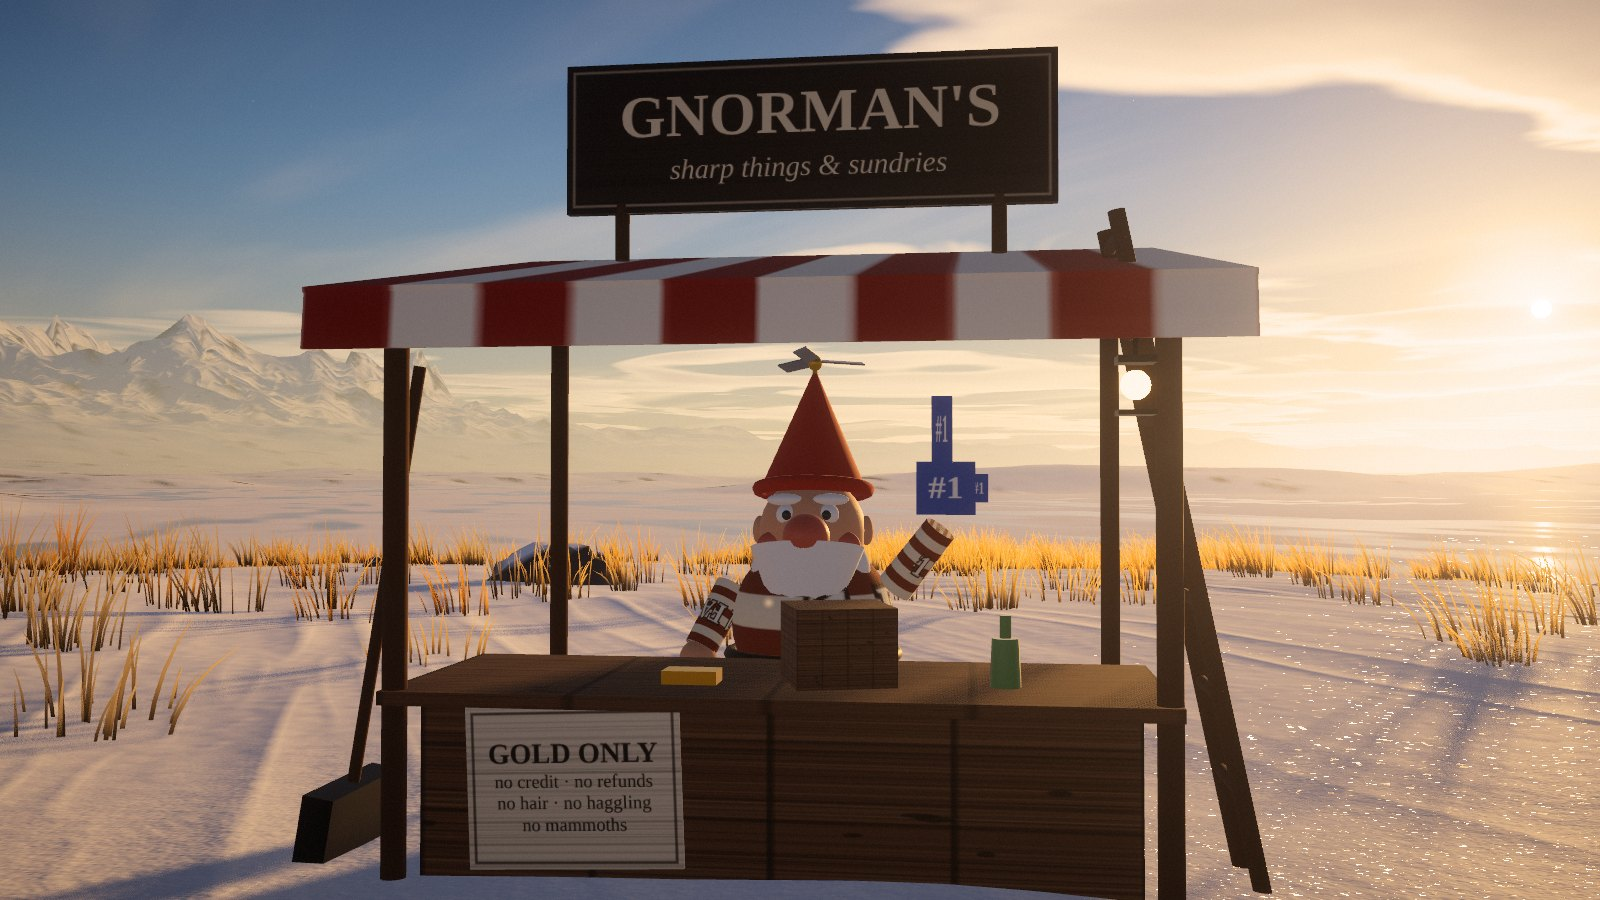
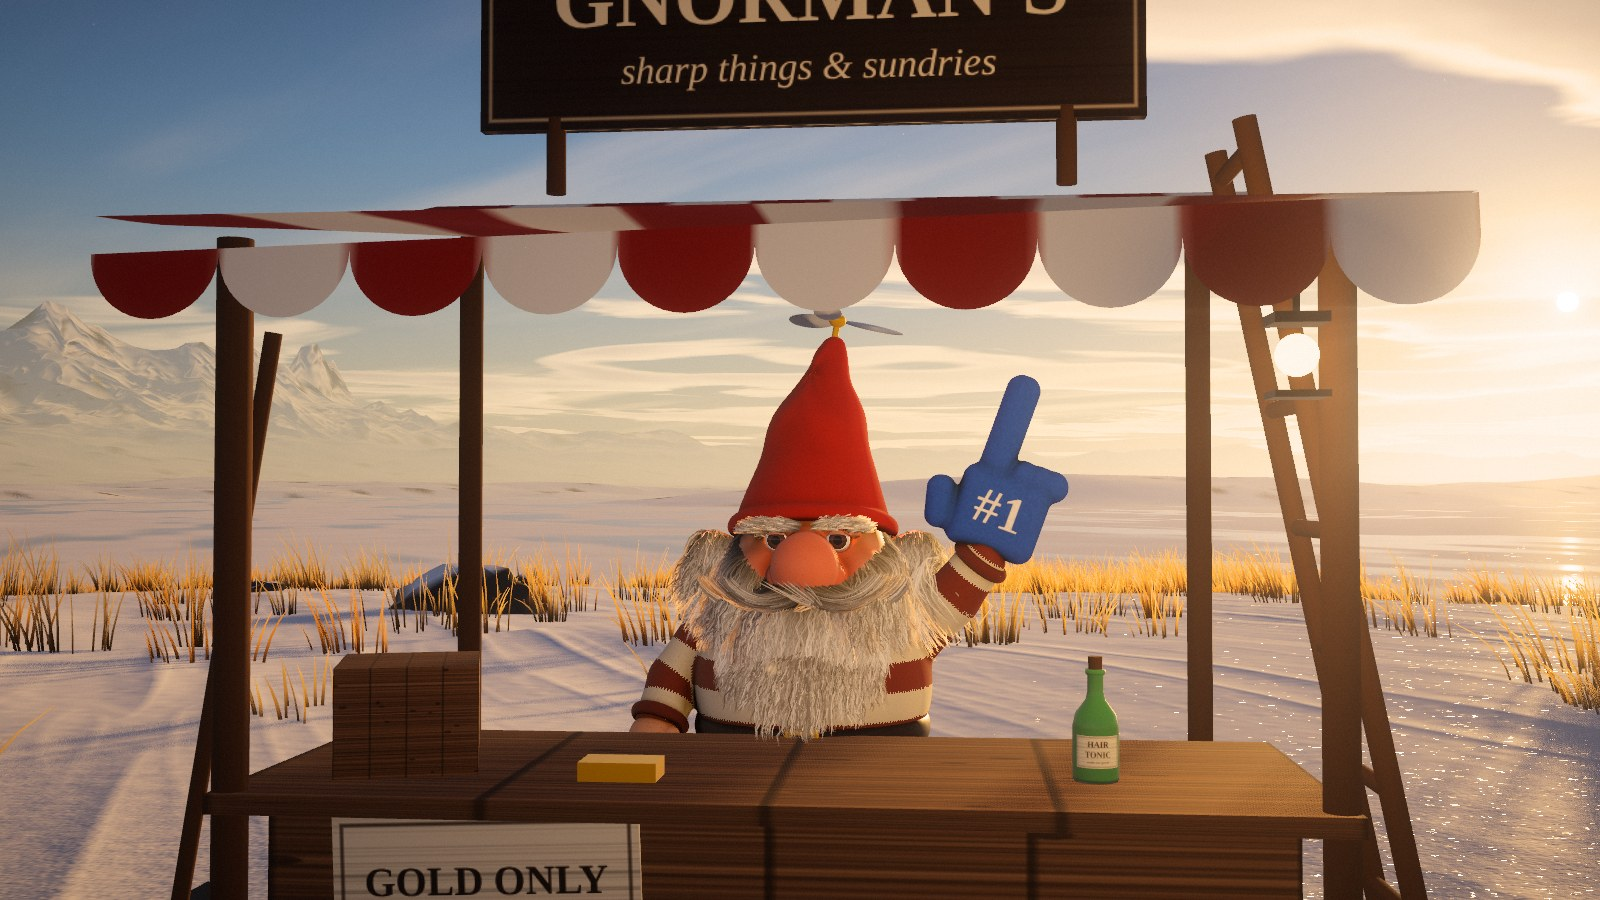
A lamp that lights the stall; hair that thins with the frame rate; materials made ready behind the loading card; new stills
- the lamp on Gnorman's stall lights what is near it (skin, cloth, wood, hair), so he is no longer a silhouette under his awning
- on a slow machine the people's hair is drawn with fewer, wider strands, as the mammoth's is
- every figure is drawn once behind the loading card: one that first came into the picture later held it up while its
  materials were made (found by the test of the opening legend)
- thinness of skin is measured on the shape before anything is carved out of it: the rims of the eyes and the mouth no
  longer glow with the sun behind them; shadows on small figures are looked up closer to the surface
- README: how the people are made, with new pictures of all three

Claude-Session: https://claude.ai/code/session_01BDsvMpvTNq7jPYUs2JzAv5

diff --git a/src/main.js b/src/main.js
@@ -56,8 +56,8 @@ if (!legend.over) {
 // run time (resolution and how much of the coat is drawn) to hold a steady
 // frame rate on whatever graphics card it finds.
 const PRESETS = {
-  low: { children: 5, strands: 110000, shadow: [2048, 1024], samples: 2, scale: 0.72, dpr: 1, furShadow: 0.4, grass: 0.55, dust: 0.4 },
-  medium: { children: 8, strands: 160000, shadow: [2048, 1024], samples: 4, scale: 0.86, dpr: 1, furShadow: 0.5, grass: 0.8, dust: 0.7 },
+  low: { children: 5, strands: 110000, shadow: [2048, 1024], samples: 2, scale: 0.72, dpr: 1, furShadow: 0.4, grass: 0.55, dust: 0.4, folk: 0.55 },
+  medium: { children: 8, strands: 160000, shadow: [2048, 1024], samples: 4, scale: 0.86, dpr: 1, furShadow: 0.5, grass: 0.8, dust: 0.7, folk: 0.8 },
   high: { children: 12, strands: 240000, shadow: [4096, 2048], samples: 4, scale: 1, dpr: 1.25, furShadow: 0.6, grass: 1, dust: 1 },
   ultra: { children: 20, strands: 400000, shadow: [4096, 2048], samples: 4, scale: 1, dpr: 2, furShadow: 0.7, grass: 1, dust: 1 },
 };
@@ -321,6 +321,12 @@ async function start() {
   hero = new Hero({ scene, camera, rig, shaving, terrain, mammoth, sound, baked: baked.elf });
   folkTimes.dressed = Math.round(performance.now() - dressFrom);
   game.hero = hero;
+  // Everything the people are made of is got ready behind the loading card. They are left out of the picture when they
+  // are not in it; one first drawn later would hold everything up while its materials were made.
+  const folkToWarm = [];
+  for (const root of [hero.elf.group, ...Object.values(game.people).flatMap((p) => p.parts.map((part) => part.group))]) {
+    root.traverse((o) => { if (o.isMesh && o.frustumCulled) { o.frustumCulled = false; folkToWarm.push(o); } });
+  }
   lifter = new Lift({ scene, rig, terrain, sound, hero });
   game.lifter = lifter;
   game.applyUpgrades();
@@ -619,6 +625,9 @@ async function start() {
     const far = THREE.MathUtils.clamp(10 / Math.max(dist, 0.1), 0.42, 1);
     const coat = furBase * ADAPT[adaptLevel].fur;
     mammoth.setFurDetail(THREE.MathUtils.clamp(coat * far, 0.05, 1), Q.furShadow * Math.min(1, coat * 1.4));
+    // (and the people's hair goes the same way as his when the frames are slow)
+    const folkHair = THREE.MathUtils.clamp((Q.folk ?? 1) * ADAPT[adaptLevel].fur, 0.3, 1);
+    for (const who of [hero.elf, game.gnome, game.vulture, game.table]) who.detail(folkHair);
     U.uPxScale.value = size.y * 0.5 * camera.projectionMatrix.elements[5];
     mammoth.updateCoat(camera, U.uPxScale.value, Math.max(2, num('children', Q.children) * ADAPT[adaptLevel].kids));
 
@@ -674,7 +683,7 @@ async function start() {
 
     frames++;
     // the first frame compiles every shader; only lift the loading card once that is done
-    if (frames === 2) reveal();
+    if (frames === 2) { for (const o of folkToWarm) o.frustumCulled = true; reveal(); }
     if (showStats && frames % 20 === 0) {
       statsEl.textContent = `${fps ? fps.toFixed(0) : '–'} fps · ${size.x}×${size.y} · ${Math.round((mammoth.hairsDrawn || 0) / 1000)}k hairs · ${(renderer.info.render.triangles / 1e6).toFixed(1)}M triangles · detail ${qualityName}${adaptLevel ? ' −' + adaptLevel : ''} · ${gpuName}`;
     }

diff --git a/src/game/people/gnome.recipe.js b/src/game/people/gnome.recipe.js
@@ -172,6 +172,17 @@ function paintGnome(x, y, z, nx, ny, nz, out) {
 
 const CELL = { head: 0.0015, hand: 0.0015, jersey: 0.0023, jerseyRib: 0.0016, trousers: 0.0026, belt: 0.0016, boots: 0.002, hat: 0.0022, foam: 0.0022 };
 
+// (the same list in another order, the same every time: roots from two places mixed, so that a share of them is a fair share)
+function shuffled(list, seed) {
+  let s = seed >>> 0 || 1;
+  for (let i = list.length - 1; i > 0; i--) {
+    s = (Math.imul(s, 1664525) + 1013904223) >>> 0;
+    const j = Math.floor((s / 4294967296) * (i + 1)), t = list[i];
+    list[i] = list[j]; list[j] = t;
+  }
+  return list;
+}
+
 /** Where an eyebrow turns about (s = 1 for his left). */
 export const browAt = (s) => [s * 0.023, 0.2575, 0.0565];
 
@@ -193,17 +204,17 @@ export function gnomeRecipe() {
     hair: {
       // the beard: from under his nose to his belt, lying on the belly as on a shelf. Thickest in the middle, where it
       // has furthest to go; and none of it rooted where his collar is
-      beard: (data) => growStrands([
+      beard: (data) => growStrands(shuffled([
         ...scatter(data.head, 6000, (x, y, z) => (clothes(x, y, z) < 0.0015 ? 0 : inBeard(x, y, z) * (1 + 3 * clamp01(1 - Math.abs(x) / 0.03))), 51),
         // (he has no neck, and his chin is down inside his collar: in the middle the beard comes out over the top of it)
         ...scatter(data.jersey, 3000, (x, y, z) => (y > 0.168 && z > 0.04 && Math.abs(x) < 0.046 && L.head.dist(x, y, z) > 0.0006 ? 1 + 2 * clamp01((y - 0.168) / 0.02) : 0), 52),
-      ], {
+      ], 59), {
         seed: 21, segments: 10, width: 0.00074, clump: 0.6, clumps: 150, frizz: 0.003, curl: [0.0022, 52], loft: 0.012,
         body: (x, y, z) => Math.min(L.head.dist(x, y, z), clothes(x, y, z)),
         shape: (p, n, rnd) => {
           const ax = Math.abs(p[0]), mid = 1 - clamp01(ax / 0.052);
           return {
-            length: 0.042 + 0.046 * mid + rnd() * 0.02,
+            length: 0.04 + 0.036 * mid + rnd() * 0.02,
             dir: [n[0] * 0.75 + Math.sign(p[0]) * 0.12 * (1 - mid) + (rnd() - 0.5) * 0.7 * mid, -0.8, 0.45 * Math.max(n[2], 0) + 0.3 + 0.35 * mid],
             droop: 1.5, stiff: 0.25,
           };

diff --git a/src/gfx/patch.js b/src/gfx/patch.js
@@ -16,9 +16,10 @@ import { U } from './globals.js';
  * @param opts.fragmentLight   statements run with `sv` (how much sun reaches here, 0..1), to add light of the material's own
  * @param opts.fragmentAmbient statements run when all light is in, to hold some of it back (occlusion)
  * @param opts.extraFragment   statements run last, on `gl_FragColor`
+ * @param opts.offset          how far off the surface (metres, along its normal) the shadow is looked up: less for small things
  */
 export function patchStandardMaterial(mat, {
-  taps = 6, sigma = 160, bias = 0.02, radius = 0.03, key = '', extraUniforms = null,
+  taps = 6, sigma = 160, bias = 0.02, radius = 0.03, offset = 0.01, key = '', extraUniforms = null,
   vertexHead = '', extraVertex = '', fragmentHead = '', fragmentColor = '', fragmentSurface = '', fragmentNormal = '',
   fragmentMaterial = '', fragmentLight = '', fragmentAmbient = '', extraFragment = '',
 } = {}) {
@@ -44,7 +45,7 @@ export function patchStandardMaterial(mat, {
         ${fragmentHead}`)
       .replace('#include <lights_fragment_begin>', `#include <lights_fragment_begin>
         {
-          float sv = sunVisibility(vWPos + normalize(vWNormal) * 0.01, ${sigma.toFixed(1)}, ${bias.toFixed(4)}, ${radius.toFixed(4)}, ign(gl_FragCoord.xy));
+          float sv = sunVisibility(vWPos + normalize(vWNormal) * ${offset.toFixed(4)}, ${sigma.toFixed(1)}, ${bias.toFixed(4)}, ${radius.toFixed(4)}, ign(gl_FragCoord.xy));
           reflectedLight.directDiffuse *= sv;
           reflectedLight.directSpecular *= sv;
           #ifdef USE_CLEARCOAT
@@ -64,6 +65,6 @@ export function patchStandardMaterial(mat, {
     if (fragmentAmbient) f = f.replace('#include <lights_fragment_end>', `#include <lights_fragment_end>\n${fragmentAmbient}`);
     shader.fragmentShader = f;
   };
-  mat.customProgramCacheKey = () => `sun-${taps}-${sigma}-${bias}-${radius}-${key}`;
+  mat.customProgramCacheKey = () => `sun-${taps}-${sigma}-${bias}-${radius}-${offset}-${key}`;
   return mat;
 }

diff --git a/src/game/people/materials.js b/src/game/people/materials.js
@@ -9,6 +9,7 @@
 // by rule, and coordinates in metres round and along the limb it is on.
 import * as THREE from 'three';
 import { patchStandardMaterial } from '../../gfx/patch.js';
+import { LAMP } from '../../gfx/glsl.js';
 
 const VERT_HEAD = /* glsl */ `
 attribute vec2 aShade;
@@ -202,7 +203,7 @@ const KINDS = {
         float thin = vShade.y;
         if (thin > 0.02) {
           float back = clamp(-ndl * 0.8 + 0.35, 0.0, 1.0);
-          float lit = sunVisibility(vWPos + uSunDir * 0.02, 160.0, 0.02, 0.03, ign(gl_FragCoord.xy));
+          float lit = sunVisibility(vWPos + uSunDir * 0.02, 160.0, 0.02, 0.012, ign(gl_FragCoord.xy));
           reflectedLight.directDiffuse += material.diffuseColor * uSunColor * back * thin * lit * vec3(1.0, 0.27, 0.14) * uFolkA.z * 1.9;
         }
       }
@@ -362,9 +363,11 @@ export function folkMaterial(kind, { color = 0xffffff, a = [0, 0, 0, 0], b = [0,
   }
   m.userData.folk = uniforms;
   return patchStandardMaterial(m, {
-    key: `folk-${kind}-${sculpted ? 's' : 'p'}${picture ? '-pic' : ''}`, bias: 0.012, radius: 0.012, taps: 8, extraUniforms: uniforms,
-    vertexHead: VERT_HEAD, extraVertex: VERT_BODY, fragmentHead: LIB,
-    fragmentColor: K.color || '', fragmentSurface: K.surface || '', fragmentNormal: K.normal || '', fragmentLight: K.light || '',
+    key: `folk-${kind}-${sculpted ? 's' : 'p'}${picture ? '-pic' : ''}`, bias: 0.012, radius: 0.012, offset: 0.004, taps: 8, extraUniforms: uniforms,
+    vertexHead: VERT_HEAD, extraVertex: VERT_BODY, fragmentHead: LAMP + LIB,
+    fragmentColor: K.color || '', fragmentSurface: K.surface || '', fragmentNormal: K.normal || '',
+    // (whatever else lights it, the lamp on the stall does if it is near)
+    fragmentLight: (K.light || '') + 'reflectedLight.directDiffuse += material.diffuseColor * lampLight(vWPos, normalize(vWNormal));',
     fragmentAmbient: OCCLUDE,
   });
 }

diff --git a/src/game/people/locks.js b/src/game/people/locks.js
@@ -2,7 +2,7 @@
 // that turns to face whoever is looking, lit as the mammoth's hair is.
 import * as THREE from 'three';
 import { U, LAYER_SHADOW_NEAR } from '../../gfx/globals.js';
-import { COMMON, SHADOWS, ATMOSPHERE } from '../../gfx/glsl.js';
+import { COMMON, SHADOWS, ATMOSPHERE, LAMP } from '../../gfx/glsl.js';
 import { growStrands } from './strands.js';
 
 const VERT = /* glsl */ `
@@ -66,6 +66,7 @@ const FRAG = /* glsl */ `
 ${COMMON}
 ${SHADOWS}
 ${ATMOSPHERE}
+${LAMP}
 uniform vec3 uRoot;
 uniform vec3 uTip;
 uniform vec3 uShine;
@@ -118,6 +119,7 @@ void main() {
   col += sqrt(albedo) * vec3(1.0, 0.72, 0.45) * uSunColor * back * (0.05 + 2.4 * edge) * smoothstep(0.15, 0.9, t) * max(vis, edge * back * 0.6) * 0.7;
 
   col += albedo * ambientLight(normalize(N + vec3(0.0, 0.3, 0.0))) * open * (0.65 + 0.35 * mid);
+  col += albedo * lampLight(vPosW, N) * mix(0.55, 1.0, deep);
   col = applyAtmosphere(col, vPosW, cameraPosition);
   gl_FragColor = vec4(col, alpha);
 }`;
@@ -162,7 +164,17 @@ export function locksMesh(strands, { width = strands.width, colour = {}, flex = 
   mesh.frustumCulled = false;
   mesh.userData.shadowMaterial = depth;
   mesh.layers.enable(LAYER_SHADOW_NEAR);
-  return { mesh, material, count: strands.count };
+  // (for a machine that is struggling: fewer strands, each a little wider, so that the mass of it looks the same)
+  const per = strands.index.length / Math.max(1, strands.count);
+  let shown = 1;
+  const detail = (f) => {
+    f = Math.min(1, Math.max(0.2, f));
+    if (Math.abs(f - shown) < 0.02) return;
+    shown = f;
+    geo.setDrawRange(0, Math.max(1, Math.round(strands.count * f)) * per);
+    own.uWidth.value = width / Math.sqrt(f);
+  };
+  return { mesh, material, count: strands.count, detail };
 }
 
 /** Grow hair and make a mesh of it, in one go (see growStrands and locksMesh for what may be asked). */

diff --git a/src/game/people/sculpt.js b/src/game/people/sculpt.js
@@ -58,6 +58,19 @@ export class Sculpt {
     return d;
   }
 
+  /** The distance to the layer before anything was carved out of it (how thick the flesh is, whatever hollows there are in it). */
+  uncut(x, y, z) {
+    const prims = this.solids;
+    let d = 1e9;
+    for (let i = 0; i < prims.length; i++) {
+      const o = prims[i];
+      const dx = x - o.bx, dy = y - o.by, dz = z - o.bz;
+      if (Math.sqrt(dx * dx + dy * dy + dz * dz) - o.br >= d + o.k) continue;
+      d = smin(d, primDist(o, x, y, z), o.k);
+    }
+    return d;
+  }
+
   grad(x, y, z, out, h = this.eps) {
     const gx = this.dist(x + h, y, z) - this.dist(x - h, y, z);
     const gy = this.dist(x, y + h, z) - this.dist(x, y - h, z);
@@ -242,7 +255,9 @@ export function meshLayer(sculpt, { cell = 0.0015, rig = null, occluder = null, 
     for (const h of ao) { dark += Math.max(0, h - occ(x + nx * h, y + ny * h, z + nz * h)) / h * scale; scale *= 0.75; }
     dark *= 1.25;                                    // (three looks do the work of four)
     shade[i * 2] = Math.max(0, 1 - dark * 0.55);
-    shade[i * 2 + 1] = Math.min(1, Math.max(0, 1 + sculpt.dist(x - nx * thin, y - ny * thin, z - nz * thin) / thin));
+    // how thin it is here: a little way in along the normal, is that still inside? (Measured on the layer as it was before
+    // anything was carved out of it: the rim of an eye socket is not a thin place, it only has a hole behind it.)
+    shade[i * 2 + 1] = Math.min(1, Math.max(0, 1 + sculpt.uncut(x - nx * thin, y - ny * thin, z - nz * thin) / thin));
     owner[i] = sculpt.owner(x, y, z);
     if (paint) { out4[0] = out4[1] = out4[2] = out4[3] = 1; paint(x, y, z, nx, ny, nz, out4); tint[i * 4] = out4[0]; tint[i * 4 + 1] = out4[1]; tint[i * 4 + 2] = out4[2]; tint[i * 4 + 3] = out4[3]; }
     if (rig) {

diff --git a/src/game/people/vulture.js b/src/game/people/vulture.js
@@ -101,7 +101,7 @@ export function buildVulture({ bare = false, baked = null } = {}) {
   fig.bound([0, 0.26, 0], 0.42);
   let turn = 0, nod = 0, blinkIn = 3, blink = 0;
   return {
-    group, meshes, height: 0.47, rug: B.rug, rig, data, materials: M,
+    group, meshes, height: 0.47, rug: B.rug, rig, data, materials: M, detail: fig.detail,
     update(dt, t, look, near, pleased = 0) {
       turn += (THREE.MathUtils.clamp(look, -1, 1) * near - turn) * Math.min(1, dt * 3);
       // he looks you up and down; a sale gets a quick greedy nod
@@ -161,6 +161,7 @@ export function buildWigTable({ baked = null } = {}) {
   }
   // wigs on stands: a ginger mop, a tall fair one, and a black quiff on the skull of somebody who haggled
   const strands = baked ? baked.hair : (() => { const h = vultureRecipe().hair; return { wigMop: h.wigMop(), wigTower: h.wigTower(), wigQuiff: h.wigQuiff() }; })();
+  const wigs = [];
   const wig = (x, name, stand = null) => {
     const g = new THREE.Group();
     g.position.set(x, 0.157, 0.2);
@@ -172,6 +173,7 @@ export function buildWigTable({ baked = null } = {}) {
       const locks = locksMesh(strands[name], { colour: WIG_HAIR[name], dense: 5, flex: 0.008 });
       g.add(locks.mesh);
       M.meshes.push(locks.mesh);
+      wigs.push(locks);
     }
     return g;
   };
@@ -190,6 +192,7 @@ export function buildWigTable({ baked = null } = {}) {
   let tipped = 0;
   return {
     group: M.group, meshes: M.meshes, radius: 0.36,
+    detail(f) { for (const w of wigs) w.detail(f); },
     /** @param weighing 0..1: there is hair in the pan */
     update(dt, t, weighing) {
       tipped += (weighing - tipped) * Math.min(1, dt * 4);

diff --git a/src/game/people/figure.js b/src/game/people/figure.js
@@ -40,13 +40,17 @@ export function buildFigure(name, bones, data, materials) {
     B[bone].add(object);
     return object;
   };
-  /** Hang hair (from growLocks, grown where the figure stands at rest) on a bone. */
+  const hairs = [];
+  /** Hang hair or feathers (grown where the figure stands at rest) on a bone. */
   const grow = (bone, locks) => {
     locks.mesh.position.sub(rig.rest[bone]);
     B[bone].add(locks.mesh);
     meshes.push(locks.mesh);
+    if (locks.detail) hairs.push(locks);
     return locks;
   };
+  /** Draw this share of every strand of its hair (1 = all of it). */
+  const detail = (f) => { for (const h of hairs) h.detail(f); };
   /** Hair that has to turn about a point of its own (an eyebrow): returns the pivot, a group on the bone. */
   const pivot = (bone, locks, at) => {
     const p = new THREE.Group(), r = rig.rest[bone];
@@ -55,6 +59,7 @@ export function buildFigure(name, bones, data, materials) {
     p.add(locks.mesh);
     B[bone].add(p);
     meshes.push(locks.mesh);
+    if (locks.detail) hairs.push(locks);
     return p;
   };
   /**
@@ -85,5 +90,5 @@ export function buildFigure(name, bones, data, materials) {
       }
     }
   };
-  return { group, rig, B, meshes, data, materials, hang, grow, pivot, eye, bound };
+  return { group, rig, B, meshes, data, materials, hang, grow, pivot, eye, bound, detail };
 }

diff --git a/src/game/game.js b/src/game/game.js
@@ -4,6 +4,7 @@
 // Gnorman's stall. This file holds that together: who stands where, what the
 // player owns, the two shops, and what is kept between visits.
 import * as THREE from 'three';
+import { U } from '../gfx/globals.js';
 import { GameState, packLengths, unpackLengths } from './state.js';
 import { ITEMS, SECTIONS, HAIR_PRICE, inSection } from './catalog.js';
 import { TOOL_ORDER } from './shaving.js';
@@ -105,6 +106,9 @@ export class Game {
     gnome.group.translateZ(-0.11);
     gnome.group.updateMatrixWorld(true);
     this.gnome = gnome; this.stall = stall;
+    // the lamp on the stall lights whoever is at it (it is always nearly dark there, under the awning with the sun behind)
+    stall.lamp.getWorldPosition(U.uLampPos.value);
+    U.uLampCol.value.set(0.34, 0.2, 0.085);
     const [table, vulture] = place('vulture', [() => buildWigTable({ baked: baked.vulture }), () => buildVulture({ baked: baked.vulture })]);
     vulture.group.position.y += 0.1;                             // on his stump
     vulture.group.translateZ(-0.05);

diff --git a/src/game/people/bakery.js b/src/game/people/bakery.js
@@ -22,8 +22,8 @@ function bakeAway(who, bare, onProgress) {
   return new Promise((resolve, reject) => {
     let worker, alive = false;
     const fail = (why) => { clearTimeout(timer); try { if (worker) worker.terminate(); } catch { /* it is gone already */ } reject(new Error(why)); };
-    // (a thread that has not said it is ready within a few seconds is not going to)
-    const timer = setTimeout(() => { if (!alive) fail('no answer from the baking thread'); }, 6000);
+    // (a thread that has not said it is ready in a quarter of a minute is not going to)
+    const timer = setTimeout(() => { if (!alive) fail('no answer from the baking thread'); }, 15000);
     try { worker = new BakeWorker(); } catch (err) { fail(String(err)); return; }
     worker.onerror = (e) => fail((e && e.message) || 'the baking thread failed');
     worker.onmessage = (e) => {

diff --git a/src/game/people/plumes.js b/src/game/people/plumes.js
@@ -4,7 +4,7 @@
 // a feather its sheen: a soft light that slides across it as it turns.
 import * as THREE from 'three';
 import { U, LAYER_SHADOW_NEAR } from '../../gfx/globals.js';
-import { COMMON, SHADOWS, ATMOSPHERE } from '../../gfx/glsl.js';
+import { COMMON, SHADOWS, ATMOSPHERE, LAMP } from '../../gfx/glsl.js';
 
 const VERT = /* glsl */ `
 ${COMMON}
@@ -52,6 +52,7 @@ const FRAG = /* glsl */ `
 ${COMMON}
 ${SHADOWS}
 ${ATMOSPHERE}
+${LAMP}
 uniform vec3 uBase;
 uniform vec3 uEdge;
 uniform vec3 uShaft;
@@ -112,6 +113,7 @@ void main() {
   col += sqrt(albedo) * vec3(1.0, 0.7, 0.42) * uSunColor * back * 0.5 * smoothstep(0.3, 0.9, y);
 
   col += albedo * ambientLight(normalize(N + vec3(0.0, 0.25, 0.0))) * open;
+  col += albedo * lampLight(vPosW, N) * open;
   col = applyAtmosphere(col, vPosW, cameraPosition);
   gl_FragColor = vec4(col, alpha);
 }`;

diff --git a/src/game/people/model.js b/src/game/people/model.js
@@ -4,6 +4,7 @@
 import * as THREE from 'three';
 import { patchStandardMaterial } from '../../gfx/patch.js';
 import { makeDepthMaterial } from '../../gfx/shadows.js';
+import { LAMP } from '../../gfx/glsl.js';
 import { LAYER_SHADOW_NEAR } from '../../gfx/globals.js';
 import { canvasTexture } from '../tool.js';
 
@@ -15,7 +16,7 @@ export class Model {
     this.group = new THREE.Group();
     this.group.name = name;
     this.meshes = [];
-    this.patch = patch || { key: 'folk', bias: 0.03 };
+    this.patch = patch || { key: 'folk', bias: 0.03, fragmentHead: LAMP, fragmentLight: 'reflectedLight.directDiffuse += material.diffuseColor * lampLight(vWPos, normalize(vWNormal));' };
     this.depth = own || depth;
   }
 
